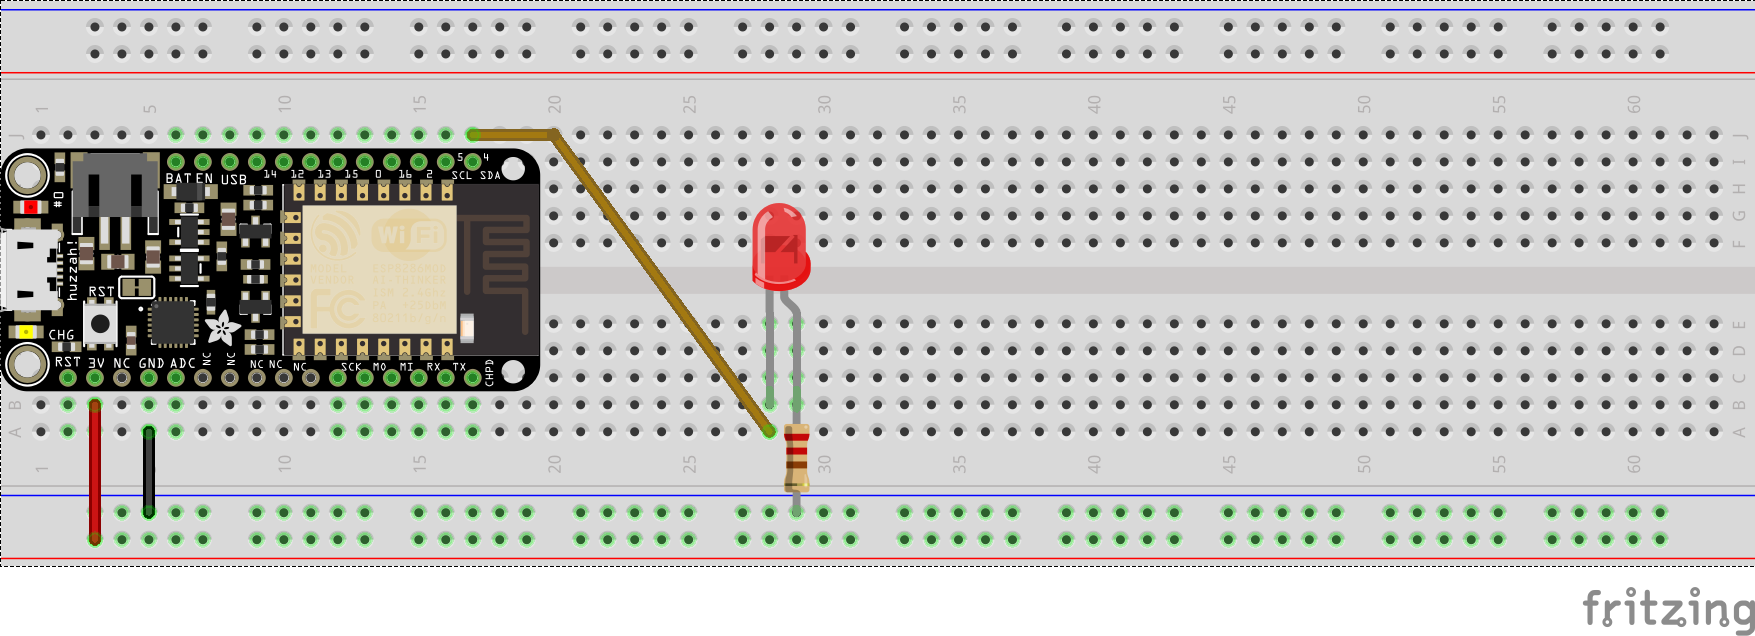
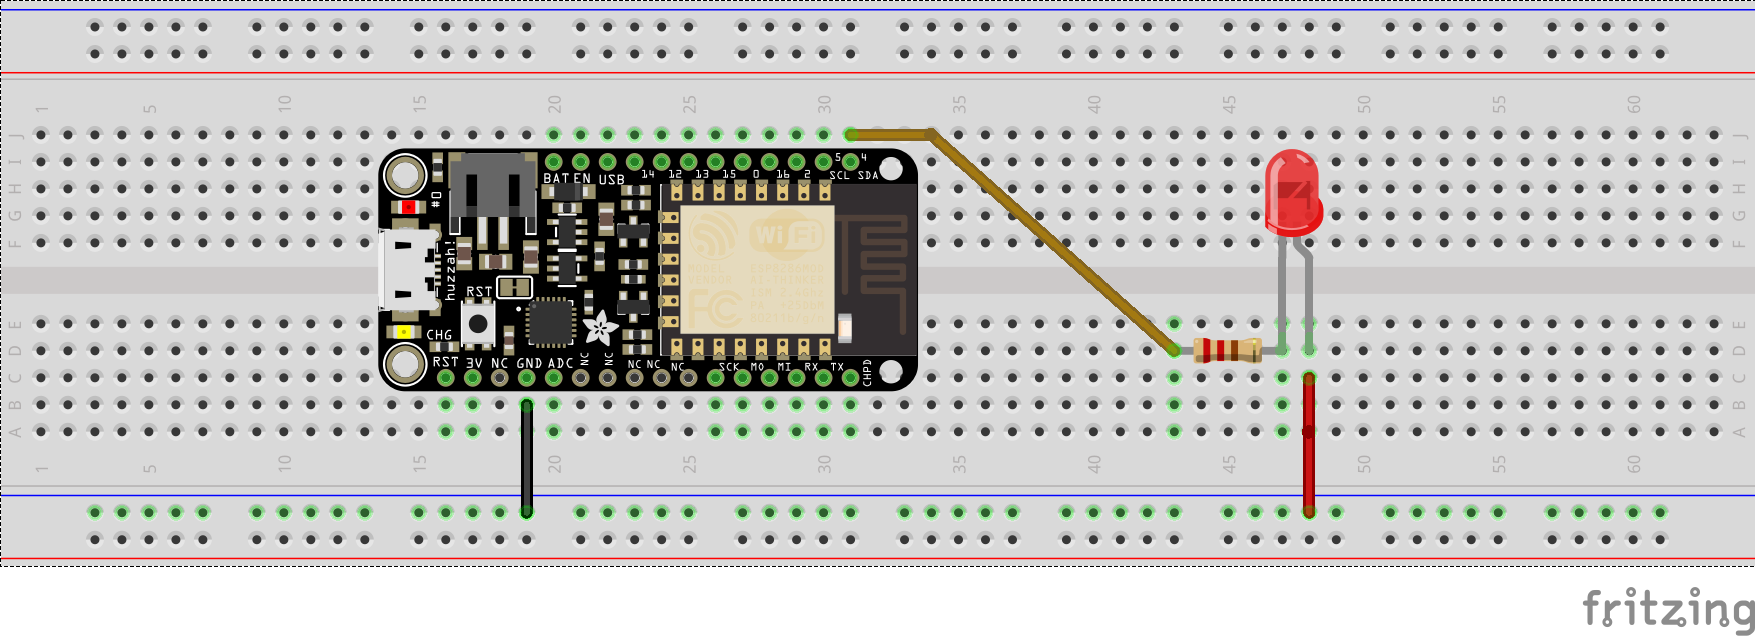
fixed the sketches and embedded them README.md

diff --git a/README.md b/README.md
@@ -17,15 +17,18 @@ The Client regulate those configurations. Moreover you have the opportunity to m
 
 
 # Prerequisites
-* [Arduino Software IDE](https://www.arduino.cc/en/Main/Software)
+* Download and install the [Arduino Software IDE](https://www.arduino.cc/en/Main/Software)
   * follow instructions on [this page](https://learn.adafruit.com/adafruit-feather-huzzah-esp8266/using-arduino-ide) to install driver and board packages
   * this repo also contains dotfiles and workspace files for [Visual Studio Code](https://code.visualstudio.com/). If you choose to work with VS Code you will still need everything above and also [this extension](https://marketplace.visualstudio.com/items?itemName=vsciot-vscode.vscode-arduino).
 * More useful info on the [Adafruit Feather HUZZAH ESP8266](https://learn.adafruit.com/adafruit-feather-huzzah-esp8266/overview)
 
 # Client
 The client consists of an Adafruit Feather HUZZAH ESP8266 and an LED as actor. The LED brightness is regulated via [pulse width modulation](https://www.arduino.cc/en/pmwiki.php?n=Reference/AnalogWrite). The Huzzah gets a sensor reading from the server via Wifi and from that calculates a brightness value to put out.
+
 ## Hardware
 Connect the LED with a resistor in front of it to pin 4 (labled "SDA" on the Huzzah). Notice that LEDs (Light Emitting Diodes), as all diodes, only allow current to pass in one direction. It won't work the LED's the wrong way around.
+![](client/client_sketch.png)
+
 ## Configuration
 * Enter credentials for your WiFi
   ```c
@@ -59,6 +62,9 @@ Whenever a client sends a GET request the server will answer by sending some dat
 | ServerIP/sensor     | sensor reading | 
 | ServerIP/brightness | sensor reading or override value, depending on checkbox on / |
 | ServerIP/           | a web interface to enter override |
+
+## Hardware
+![](server/server_sketch.png)
 
 ## Configuration
 * Enter credentials for your WiFi
